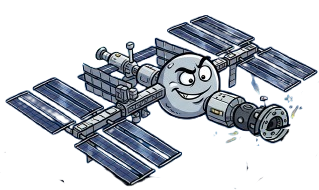
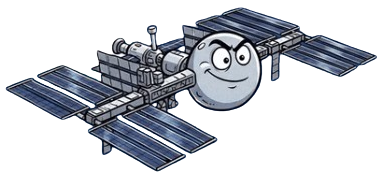
feat: robust backend CORS integration, API proxy sync, and cinematic UI polish
This commit consolidates the unified cloud architecture split between Azure Static Web Apps (SWA) and Azure Container Apps (ACA), ensuring full production and local parity while polishing user experience.

Backend Changes:
- Integrated `flask_cors` extension within `app.py` to natively handle Cross-Origin Resource Sharing (CORS) across development and staging layers.
- Added `flask_cors` explicit dependency to `requirements.txt` ensuring clean builds during container assembly.

Frontend & API Proxy Routing:
- Refactored all data fetching mechanisms in `static/script.js` to systematically prepend the `/api/` prefix (`/get_iss_position`, `/iss-pass`, `/closest-pass`, and `/trajectory`). This explicitly aligns with the native routing setup orchestrated via `staticwebapp.config.json`.

UX & Visual Improvements:
- Replaced the abrupt, jarring map resets inside `drawOrbit()`. Leaflet's `map.fitBounds()` now dynamically sweeps the viewport utilizing a smooth 1.5-second cinematic animation accompanied by an ergonomic 50px spatial padding.

Documentation Updates:
- Extensively revamped `Readme.md` to cleanly illustrate the decoupled Cloud topology (SWA serving static assets, ACA executing Flask telemetry routines using SGP4 calculations).
- Documented standardized onboarding procedures for team deployment workflows via both Dockerized containers and localized Python virtual environments.

diff --git a/static/script.js b/static/script.js
@@ -74,7 +74,7 @@ function setHouse(lat, lon) {
 
 async function updateISSPosition() {
     try {
-        const response = await fetch("/get_iss_position");
+        const response = await fetch("/api/get_iss_position");
         const data = await response.json();
 
         if (data.error) {
@@ -154,7 +154,7 @@ async function getNextPass() {
     result.innerHTML = "🛰 Searching next ISS pass...";
 
     try {
-        const response = await fetch(`/iss-pass?lat=${lat}&lon=${lon}`);
+        const response = await fetch(`/api/iss-pass?lat=${lat}&lon=${lon}`);
         const data = await response.json();
 
         if (data.error) {
@@ -189,7 +189,7 @@ async function getClosestPass() {
     result.innerHTML = "🛰 Calculating closest ISS approach...";
 
     try {
-        const response = await fetch(`/closest-pass?lat=${lat}&lon=${lon}`);
+        const response = await fetch(`/api/closest-pass?lat=${lat}&lon=${lon}`);
         const data = await response.json();
 
         if (data.error) {
@@ -239,7 +239,7 @@ function drawOrbit(points) {
     currentOrbitLine = L.polyline(path, { color: 'yellow', weight: 3 }).addTo(map);
 
     // Ajustar mapa
-    map.fitBounds(currentOrbitLine.getBounds());
+    map.fitBounds(currentOrbitLine.getBounds(), { padding: [50, 50], animate: true, duration: 1.5 });
 }
 
 /* 
@@ -251,7 +251,7 @@ async function getTrajectory() {
     result.innerHTML = "🛰 Calculating ISS trajectory...";
 
     try {
-        const response = await fetch('/trajectory?minutes=90&step=60');
+        const response = await fetch('/api/trajectory?minutes=90&step=60');
         const data = await response.json();
 
         if (!data.points) {

diff --git a/app.py b/app.py
@@ -1,4 +1,5 @@
 from flask import Flask, render_template, request, jsonify, send_from_directory
+from flask_cors import CORS
 import requests
 import os
 from orbit_utils import get_iss_tle, teme_to_latlon, distance_km
@@ -8,6 +9,7 @@ from math import sqrt, radians, sin, cos, atan2, degrees
 from cache_utils import load_cache, save_cache
 
 app = Flask(__name__, template_folder=".")
+CORS(app)
 
 @app.route("/")
 def index():

diff --git a/Readme.md b/Readme.md
@@ -27,7 +27,20 @@ What started as a quick 20-minute idea turned into a midnight coding session bec
 * **Backend:** Flask (Python) handles the math and routing.
 * **Orbital Engine:** Integrated with **SGP4** for high-precision mathematical orbital prediction.
 * **Frontend:** Clean, space-inspired dark UI built with Leaflet.js and raw CSS.
-* **APIs:** Open Notify API for real-time telemetry data data sync.
+* **APIs:** Open Notify API and WhereTheISS.at for real-time telemetry data sync.
+* **Azure Deployment:** Frontend on Azure Static Web Apps, backend on Azure Container Apps, connected through `staticwebapp.config.json`.
+
+---
+
+## ☁️ Azure Setup
+
+This project is set up as a split deployment:
+
+* The frontend is served from Azure Static Web Apps.
+* The backend runs as a Flask app inside Azure Container Apps.
+* `staticwebapp.config.json` exposes `/api/*` and proxies those requests to the backend container.
+
+That means the browser-facing calls go through `/api/...`, while the backend can stay as a normal Flask app behind Azure.
 
 ---
 
@@ -52,6 +65,58 @@ You can run this tiny tool locally using Docker or directly with Python.
    ```bash
    git clone [https://github.com/BillyClassTime/when-does-iss-visit-my-house.git](https://github.com/BillyClassTime/when-does-iss-visit-my-house.git)
    cd when-does-iss-visit-my-house
+   ```
+
+2. Build and run the container:
+   ```bash
+   docker build -t iss-visit-tool .
+   docker run -p 8080:8080 iss-visit-tool
+   ```
+
+### Option 2: Python
+
+1. Install dependencies:
+   ```bash
+   pip install -r requirements.txt
+   ```
+
+2. Start the app:
+   ```bash
+   python app.py
+   ```
+---
+
+### 🛰️ API Endpoints (Direct Backend Production URLs)
+
+You can test the live container app endpoints directly using `curl`:
+
+#### 1. Real-Time ISS Position
+Returns the current latitude, longitude, and an orbital math note.
+```bash
+curl https://ca-iss-backend-usa.orangeriver-813e879f.eastus.azurecontainerapps.io/get_iss_position
+```
+
+#### 2. Next ISS Pass Prediction
+Calculates the exact time and duration of the next visible pass for a specific location.
+
+```bash
+curl "https://ca-iss-backend-usa.orangeriver-813e879f.eastus.azurecontainerapps.io/iss-pass?lat=40.4168&lon=-3.7038"
+```
+
+#### 3. Closest Approach Prediction
+Computes the precise moment and minimum distance (in km) when the ISS is nearest to you.
+
+```bash
+curl "https://ca-iss-backend-usa.orangeriver-813e879f.eastus.azurecontainerapps.io/closest-pass?lat=40.4168&lon=-3.7038"
+```
+
+#### 4. Future Orbit Trajectory
+Generates an array of geographical points mapping out the complete orbital path for the next 90 minutes.
+
+```bash
+curl "https://ca-iss-backend-usa.orangeriver-813e879f.eastus.azurecontainerapps.io/trajectory?minutes=90&step=60"
+```
+
 
 
 ---